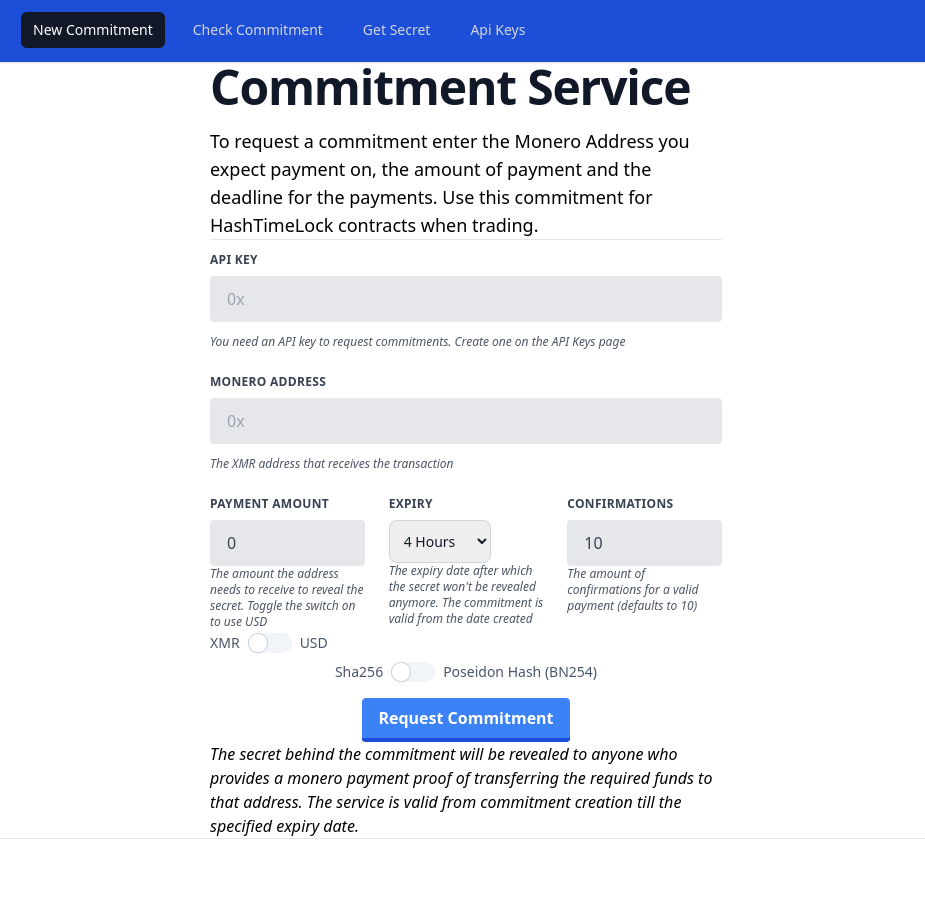
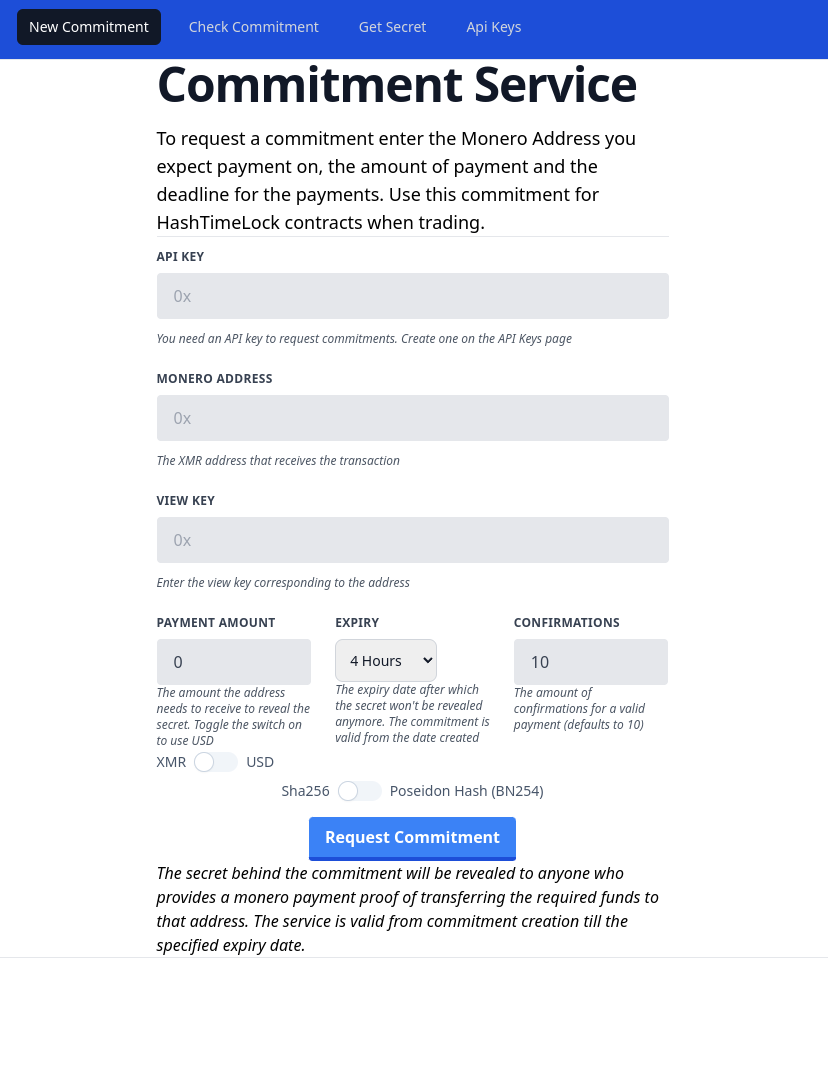
adding view key for XMR deposit verification

Changed region(s): [[0.0, 0.0, 1.0, 0.9091]]

diff --git a/db.go b/db.go
@@ -43,6 +43,7 @@ type Commitments struct {
 	Commitment     string
 	Unlock_address string
 	Unlock_amount  float64
+	View_key       string
 	Is_dollars     bool
 	Hash_func      string
 	Confirmations  int16
@@ -57,6 +58,7 @@ func createCommitmentTable(db *sql.DB) {
 		"commitment" TEXT,
 		"unlock_address" TEXT,
 		"unlock_amount" REAL,
+		"view_key: TEXT,
 		"is_dollars" INTEGER,
 		"hash_func" TEXT,
 		"confirmations" INTEGER,
@@ -82,6 +84,7 @@ func insertCommitment(
 	commitment string,
 	unlock_address string,
 	unlock_amount float64,
+	view_key string,
 	Is_dollars bool,
 	hash_func string,
 	confirmations int16,
@@ -89,17 +92,18 @@ func insertCommitment(
 	valid_till uint64,
 ) {
 	log.Println("Inserting commitment record ....")
-	insertCommitmentSQL := `INSERT INTO cosmmitments(
+	insertCommitmentSQL := `INSERT INTO commitments(
 		secret, 
 		commitment, 
 		unlock_address, 
 		unlock_amount,
+		view_key,
 		is_dollars,
 		confirmations, 
 		valid_from, 
 		valid_till,
 		hash_func
-		) VALUES (?, ?, ?, ?, ?, ?, ?,?,?)`
+		) VALUES (?, ?, ?, ?, ?, ?, ?,?,?,?)`
 
 	statement, err := db.Prepare(insertCommitmentSQL)
 	if err != nil {
@@ -111,6 +115,7 @@ func insertCommitment(
 		commitment,
 		unlock_address,
 		unlock_amount,
+		view_key,
 		Is_dollars,
 		confirmations,
 		valid_from,
@@ -125,11 +130,12 @@ func insertCommitment(
 func getCommitmentDetails(db *sql.DB, commitment string) (Commitments, error) {
 	var commitments Commitments
 
-	row := db.QueryRow("SELECT unlock_address,unlock_amount,is_dollars, valid_from,valid_till,confirmations, hash_func FROM commitments WHERE commitment = ?", commitment)
+	row := db.QueryRow("SELECT unlock_address,unlock_amount,view_key,is_dollars, valid_from,valid_till,confirmations, hash_func FROM commitments WHERE commitment = ?", commitment)
 
 	if err := row.Scan(
 		&commitments.Unlock_address,
 		&commitments.Unlock_amount,
+		&commitments.View_key,
 		&commitments.Is_dollars,
 		&commitments.Valid_from,
 		&commitments.Valid_till,

diff --git a/readme.md b/readme.md
@@ -187,11 +187,11 @@ contract HTLC {
 
 ## Using multisig wallet as deposit address
 
-The commitment provider doesn't care what address is used for depositing same way it has no knowledge of where the commitment is used.
+The commitment provider doesn't care what address is used for depositing, same way it has no knowledge of where the commitment is used.
 
 If an application developer implements Multisig for depositing, that can create applications where XMR could be refunded conditionally.
 
-A use-case that comes to mind is Monero Collateralized Loans.
+A use-case that comes to mind is **Monero Collateralized Loans**.
 
 Let me explain:
 
